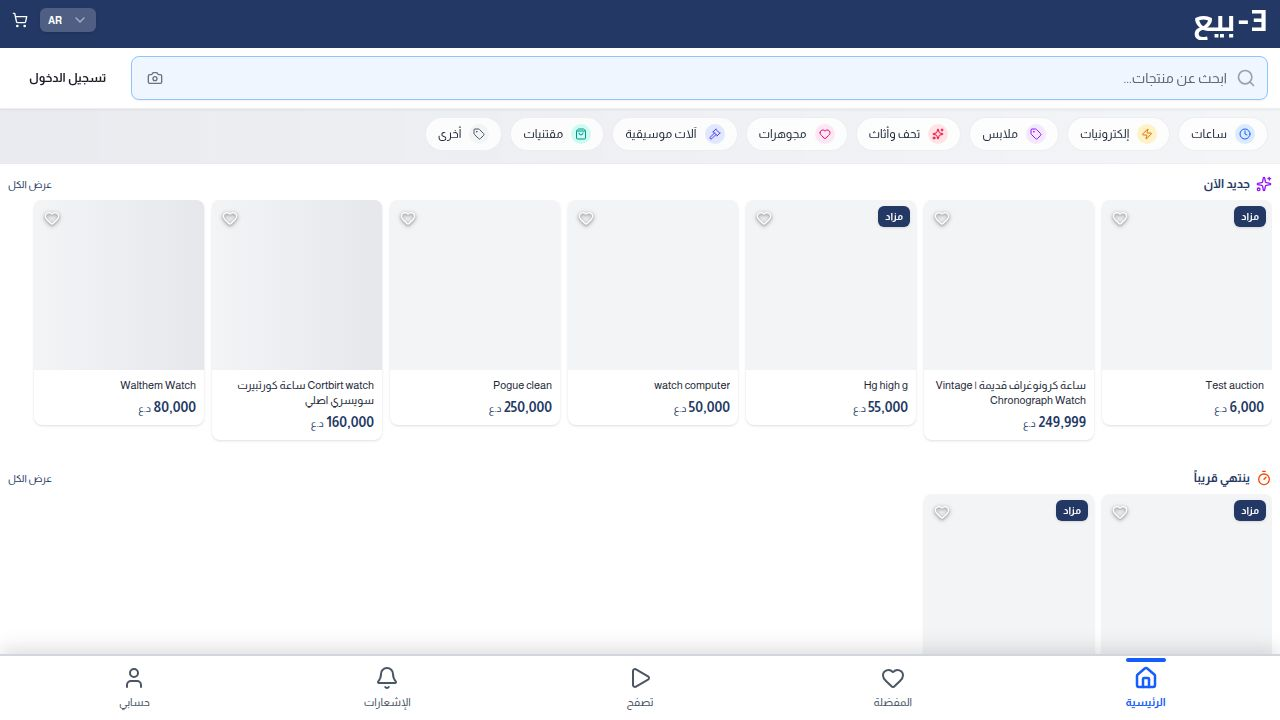
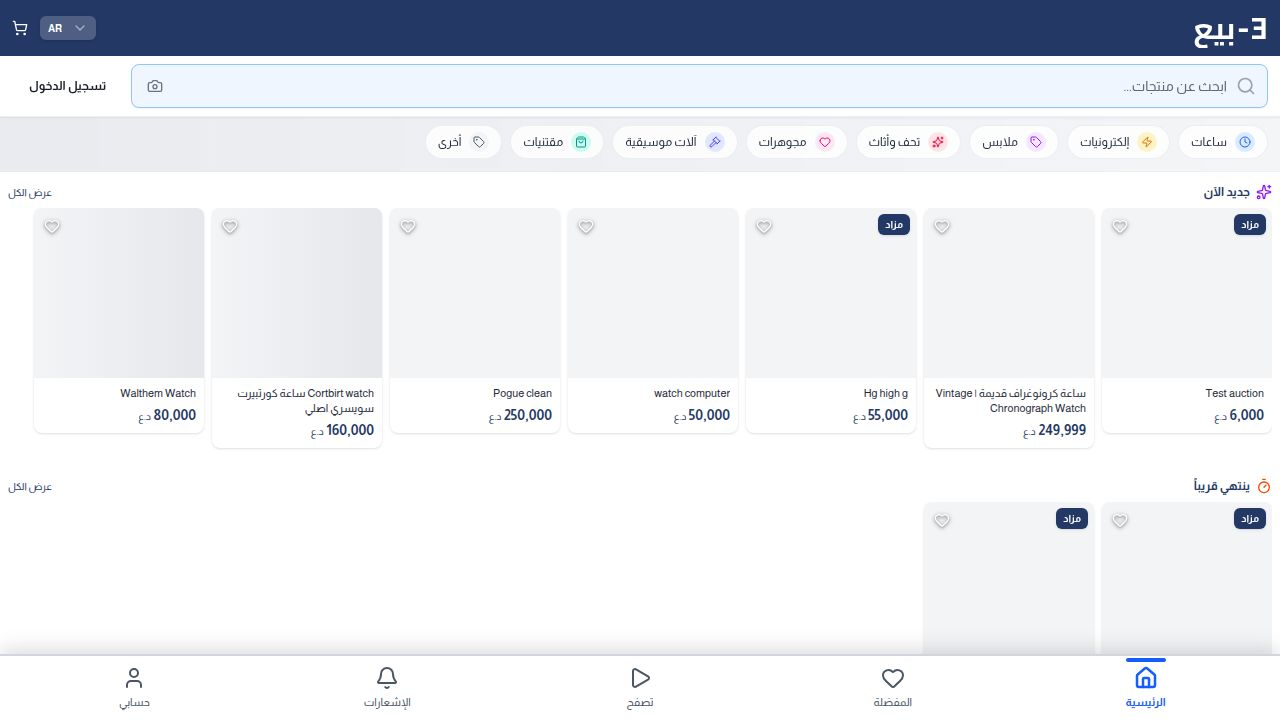
Update layout and styles to improve safe-area handling for native apps
Refactors CSS to remove unused styles, renames 'despia' classes to 'app' prefixes, and directly implements safe-area insets using `env()` in the header for improved compatibility with Capacitor.

Replit-Commit-Author: Agent
Replit-Commit-Session-Id: 7b42ae34-3faa-4942-850f-8ec7336fe8a9
Replit-Commit-Checkpoint-Type: intermediate_checkpoint
Replit-Commit-Event-Id: 14ed5468-bc49-4985-990e-e531869aa000
Replit-Commit-Screenshot-Url: https://storage.googleapis.com/screenshot-production-us-central1/2e607e21-532b-495b-8d75-179bb2556e64/7b42ae34-3faa-4942-850f-8ec7336fe8a9/NvbjgoJ
Replit-Helium-Checkpoint-Created: true

diff --git a/client/src/components/layout.tsx b/client/src/components/layout.tsx
@@ -26,14 +26,14 @@ export function Layout({ children, hideHeader = false }: LayoutProps) {
   const isRtl = language === "ar" || language === "ku";
 
   return (
-    <div className="despia-app bg-background font-sans md:min-h-screen md:block overflow-x-hidden max-w-full" dir={isRtl ? "rtl" : "ltr"}>
+    <div className="app-container bg-background font-sans md:min-h-screen md:block overflow-x-hidden max-w-full" dir={isRtl ? "rtl" : "ltr"}>
             
       {/* Image Search Modal */}
       <ImageSearchModal open={imageSearchOpen} onOpenChange={setImageSearchOpen} />
 
       {/* Top Bar with Logo, Language, Cart */}
       {!hideHeader && (
-      <div className="despia-topbar bg-primary text-white py-2 px-3 text-[13px] font-semibold shadow-[var(--shadow-1)]">
+      <div className="app-topbar bg-primary text-white py-2 px-3 text-[13px] font-semibold shadow-[var(--shadow-1)]">
         <div className="container mx-auto flex justify-between items-center">
           <Link href="/" className="flex-shrink-0 flex items-center">
             <Logo className="h-8 md:h-10 brightness-0 invert" />
@@ -69,7 +69,7 @@ export function Layout({ children, hideHeader = false }: LayoutProps) {
       {/* Main Header - Search Only */}
       {!hideHeader && (
       <header className="sticky top-0 z-50 glass-surface border-b border-border/60 shadow-[var(--shadow-1)]">
-        <div className="container mx-auto px-3 py-2" style={{ paddingTop: "calc(var(--safe-area-top) + 0.5rem)" }}>
+        <div className="container mx-auto px-3 py-2" style={{ paddingTop: "calc(env(safe-area-inset-top, 0px) + 0.5rem)" }}>
           {/* Full Width Search Bar */}
           <div className="flex items-center gap-2">
             {/* Back Button - Mobile */}
@@ -97,7 +97,7 @@ export function Layout({ children, hideHeader = false }: LayoutProps) {
       )}
 
       {/* Main Content */}
-      <main className={`despia-content md:pb-0 md:flex-1 ${isNative ? "pb-6" : "pb-20"}`}>
+      <main className={`app-content md:pb-0 md:flex-1 ${isNative ? "pb-6" : "pb-20"}`}>
         {children}
         
       </main>
